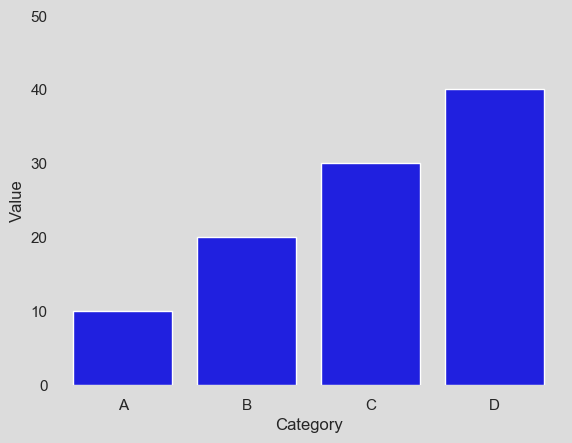
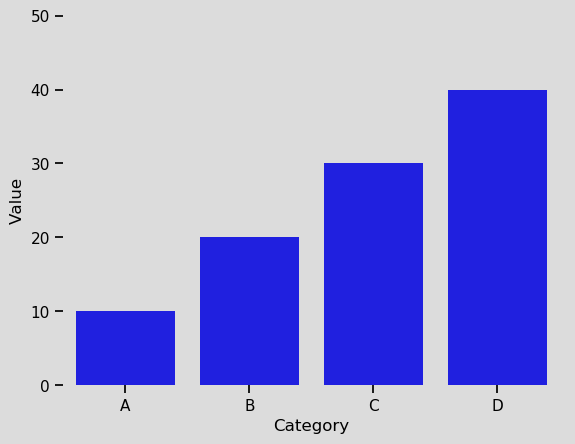
Fixed borders around bar charts in Seaborn and refactored plot function

diff --git a/seaborn_plots.py b/seaborn_plots.py
@@ -10,8 +10,9 @@ def generate_plots(data_path_1, data_path_2):
     df2 = pd.read_csv(data_path_2)
     
     #Customise Seaborn using Matplotlib's parameters
-    sns.set(style='white')
-    sns.set(rc={
+    #Seaborn's set() is sneaky in bringing in a bunch of default parameters!
+    sns.set(style=None, palette='deep', font='sans-serif', font_scale=1, color_codes=True, rc={
+        'font.size':8,
         'axes.facecolor':'gainsboro',
         'savefig.facecolor':'gainsboro',
         'savefig.edgecolor':'gainsboro',
@@ -19,7 +20,8 @@ def generate_plots(data_path_1, data_path_2):
         'axes.spines.left':False,
         'axes.spines.right':False,
         'axes.spines.top':False,
-        'axes.spines.bottom':False,})
+        'axes.spines.bottom':False
+        })
 
     max_y = max(df1.Value.max(), df2.Value.max())
 
@@ -35,33 +37,43 @@ def generate_plots(data_path_1, data_path_2):
 
     fig_1.savefig(r'static/images/image_1.png', bbox_inches="tight")
 
-    fig_buffer_1 = io.BytesIO()
-    fig_1.savefig(fig_buffer_1, format='png', bbox_inches="tight")
-
-    fig_buffer_2 = io.BytesIO()
-    fig_2.savefig(fig_buffer_2, format='png', bbox_inches="tight")
-
-    img_1 = Image.open(fig_buffer_1).getdata()
-    img_2 = Image.open(fig_buffer_2).getdata()
-
     #Perform pixel-by-pixel comparison of two images
-    mismatches = 0
-    counter = 0
-    new_image = []
 
-    for pixel_a, pixel_b in zip(img_1, img_2):
-        if pixel_a == (32,32,223,255) or pixel_b == (32,32,223,255):
-            counter += 1
-            if pixel_a != pixel_b:
-                mismatches += 1
-                new_image.append((227,108,10,100))
+    def pixel_by_pixel(fig_A, fig_B):
+        '''
+        Given two figures (fig_A, fig_B) does pixel-by-pixel and returns
+        a new image that has highlights where the two images are different
+        '''
+
+        fig_buffer_A = io.BytesIO()
+        fig_A.savefig(fig_buffer_A, format='png', bbox_inches="tight")
+
+        fig_buffer_B = io.BytesIO()
+        fig_B.savefig(fig_buffer_B, format='png', bbox_inches="tight")
+
+        img_1 = Image.open(fig_buffer_A).getdata()
+        img_2 = Image.open(fig_buffer_B).getdata()
+
+        mismatches = 0
+        counter = 0
+        new_image_data = []
+
+        for pixel_a, pixel_b in zip(img_1, img_2):
+            if pixel_a == (32,32,223,255) or pixel_b == (32,32,223,255):
+                counter += 1
+                if pixel_a != pixel_b:
+                    mismatches += 1
+                    new_image_data.append((227,108,10,100))
+                else:
+                    new_image_data.append(pixel_b)
             else:
-                new_image.append(pixel_b)
-        else:
-            new_image.append(pixel_b)
+                new_image_data.append(pixel_b)
 
+        new_image = Image.new(Image.open(fig_buffer_A).mode, Image.open(fig_buffer_A).size)
+        new_image.putdata(new_image_data)
+
+        return new_image
+    
     #Save the image with highlighted differences
-    im2 = Image.new(Image.open(fig_buffer_2).mode, Image.open(fig_buffer_2).size)
-    im2.putdata(new_image)
-
-    im2.save(r'static/images/image_2.png')
+    new_bar_chart = pixel_by_pixel(fig_1, fig_2)
+    new_bar_chart.save(r'static/images/image_2.png')

diff --git a/tkinter_app.py b/tkinter_app.py
@@ -9,6 +9,7 @@ from jinja_app import generate_report
 class MyFirstGUI:
     def __init__(self, master):
         self.master = master
+
         master.title("A simple GUI")
 
         self.label = Label(master, text="Best GUI ever!")
@@ -26,7 +27,10 @@ class MyFirstGUI:
         self.close_button = Button(master, text="That's enough magic for now", command=master.quit)
         self.close_button.pack()
 
-        
+        self.filename_1 = 'C:\\Users\\germap01\\Python\\UNSORTED\\Hackathon\\2019\\Working\\data_1.csv'
+        self.filename_2 = 'C:\\Users\\germap01\\Python\\UNSORTED\\Hackathon\\2019\\Working\\data_2.csv' 
+
+
     def open_file_1(self):
         self.filename_1 = filedialog.askopenfilename(initialdir = os.getcwd(), title = "Select file")
     
@@ -34,6 +38,7 @@ class MyFirstGUI:
         self.filename_2 = filedialog.askopenfilename(initialdir = os.getcwd(), title = "Select file")
 
     def run_jinja(self):
+
         generate_report(self.filename_1, self.filename_2)
 
 root = Tk()

diff --git a/README.md b/README.md
@@ -1,0 +1,10 @@
+Temporary repo for files related to 2019 Digital Health Hackathon
+
+To test: clone or download the repo and run tkinter.py from the command line.
+
+Python dependencies:
+
+* Pandas
+* Seaborn
+* PIL
+* Jinja2
